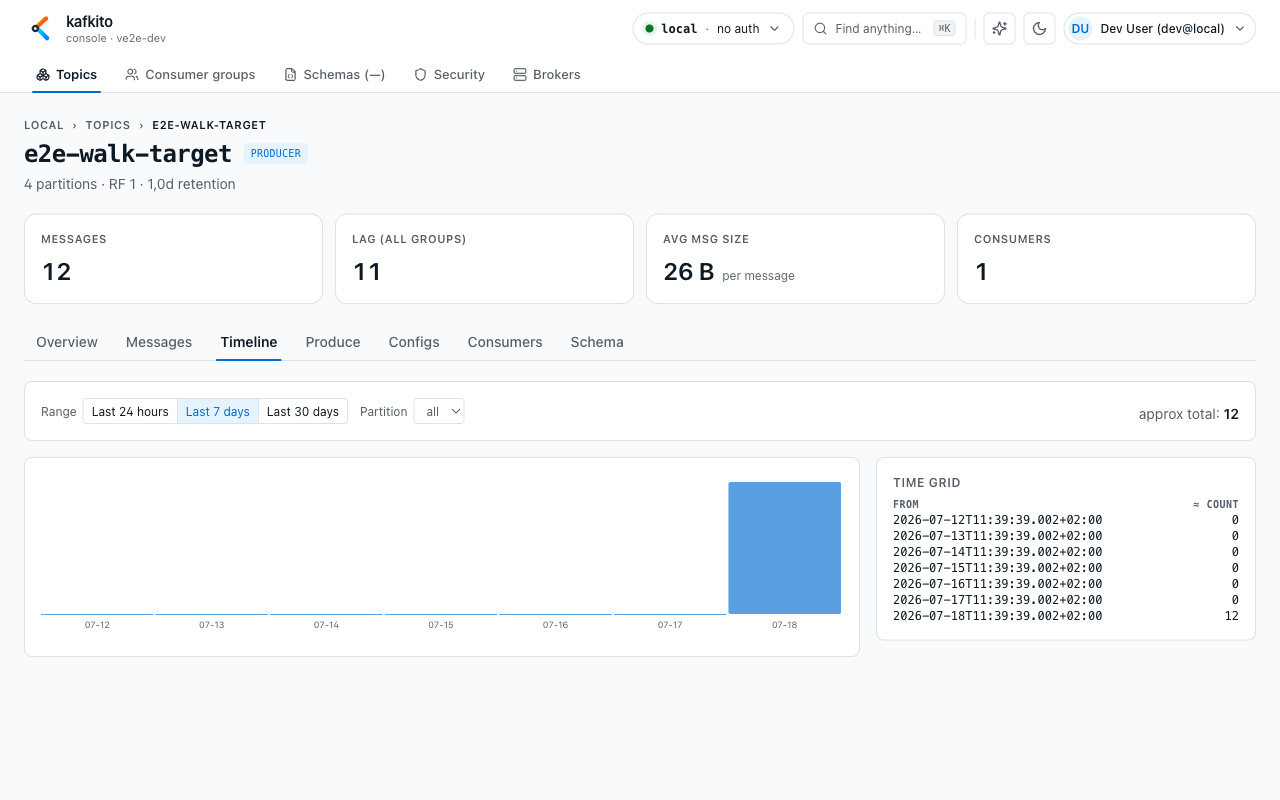
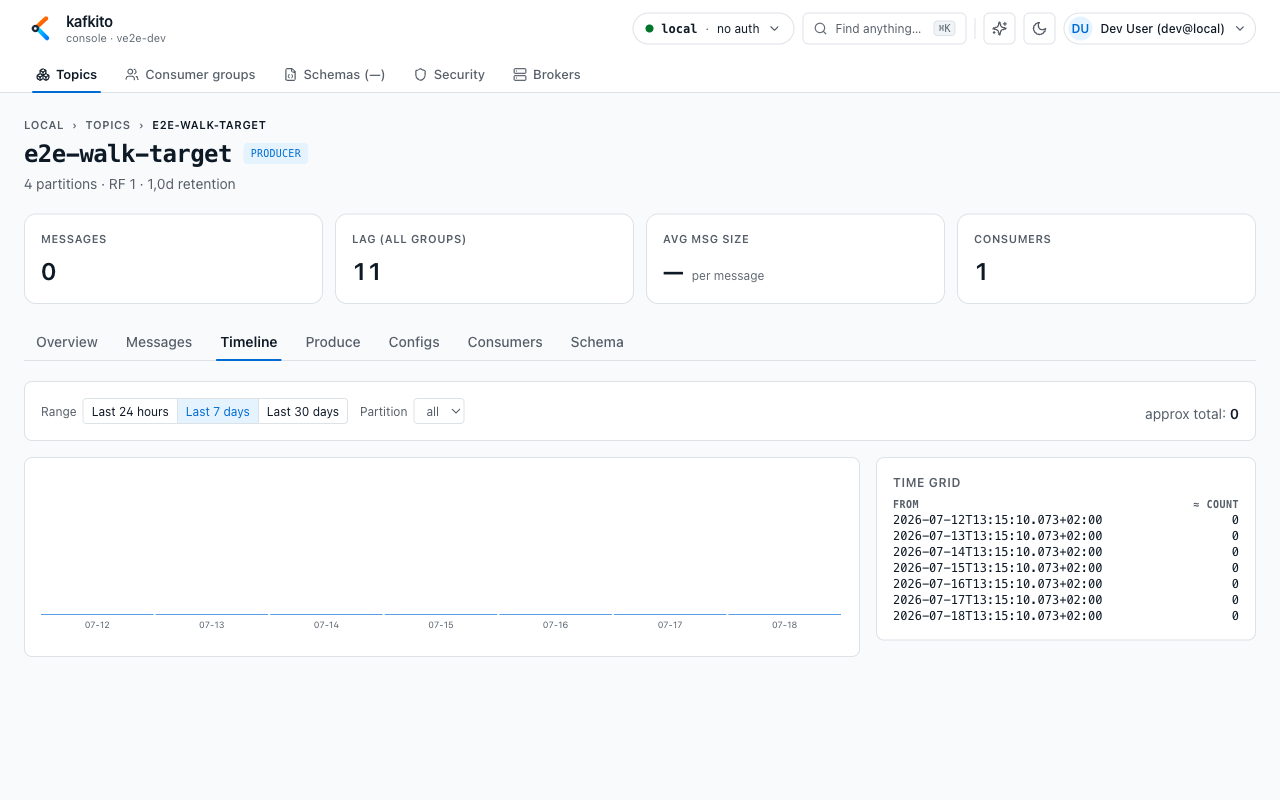
Add timeline e2e coverage

diff --git a/frontend/e2e/timeline.spec.ts b/frontend/e2e/timeline.spec.ts
@@ -1,0 +1,24 @@
+import { expect, test } from "@playwright/test";
+
+const CLUSTER = process.env.KAFKITO_E2E_CLUSTER ?? "local";
+const TOPIC = "e2e-walk-target";
+
+test.describe("Message timeline (Phase 3)", () => {
+  test("shows traffic spread across multiple days", async ({ page }) => {
+    await page.goto(`/clusters/${encodeURIComponent(CLUSTER)}/topics/${encodeURIComponent(TOPIC)}/timeline`);
+
+    await expect(page.getByRole("heading", { level: 1, name: TOPIC })).toBeVisible();
+    await expect(page.getByRole("img", { name: /message count per time slot/i })).toBeVisible();
+    await expect(page.getByText(/approx total:\s*12/i)).toBeVisible();
+
+    const barHeights = await page
+      .locator('svg[aria-label="Message count per time slot"] rect')
+      .evaluateAll((nodes) =>
+        nodes.map((node) => Number(node.getAttribute("height") ?? "0")),
+      );
+
+    expect(barHeights).toHaveLength(7);
+    expect(new Set(barHeights).size).toBeGreaterThan(2);
+    expect(Math.max(...barHeights)).toBeGreaterThan(Math.min(...barHeights));
+  });
+});
